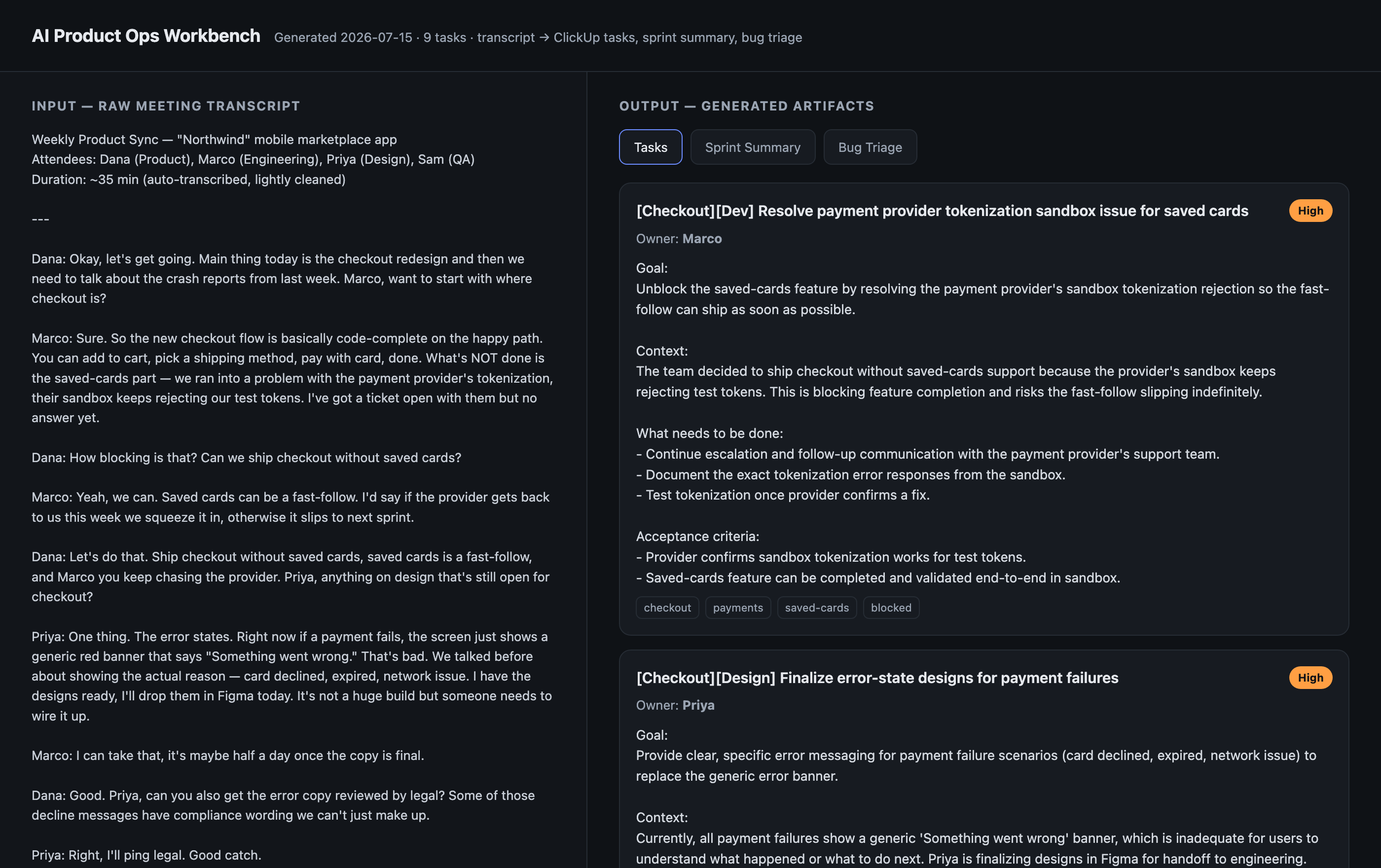
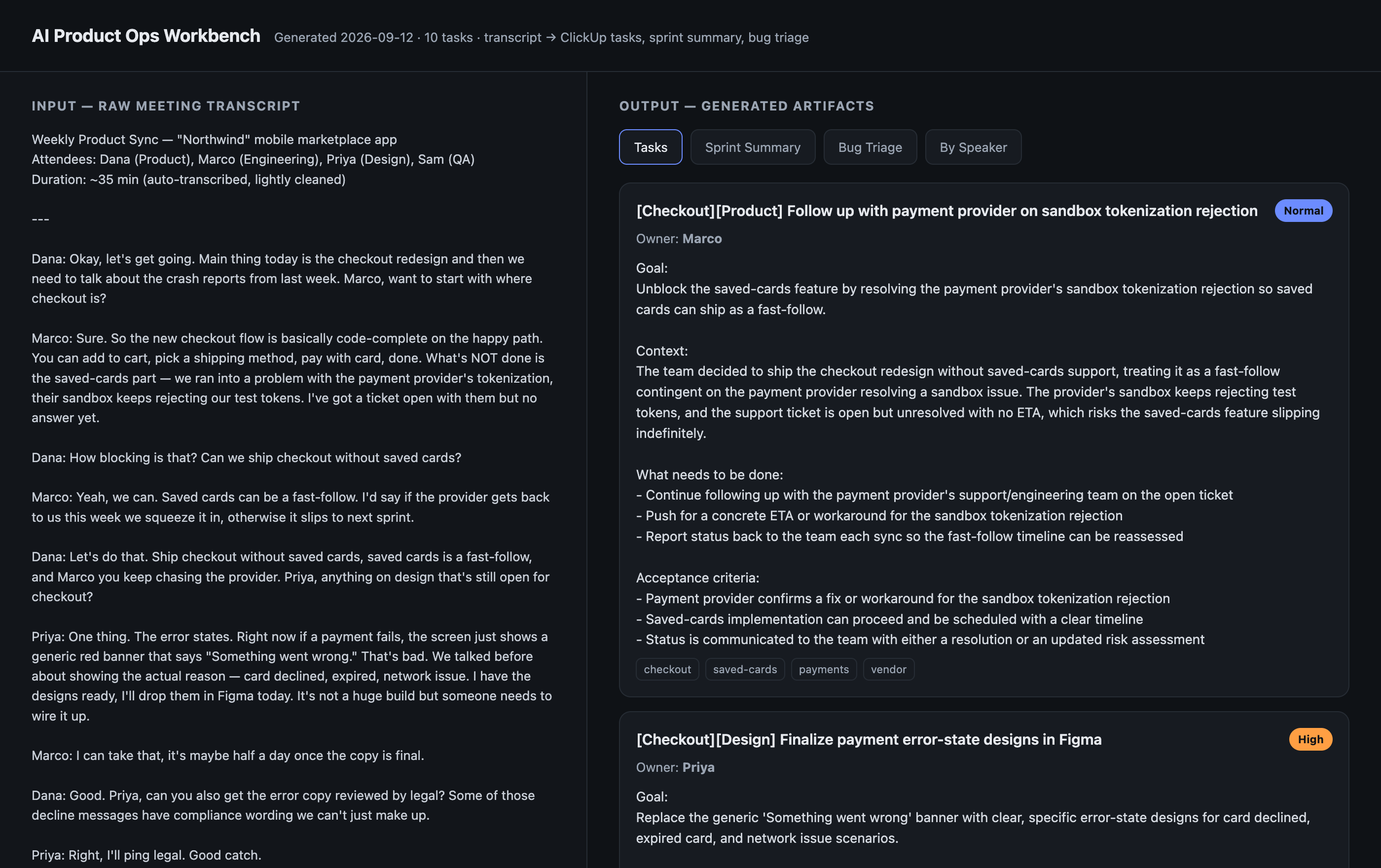
Refresh the public demo, and describe the plan tab
docs/index.html was generated on 15 July and had three tabs — Tasks,
Sprint Summary, Bug Triage — with no per-speaker view (grep -c "By
Speaker" old: 0). It is now a fresh render of the current pipeline and
gains a fourth tab, By Speaker (grep -c "By Speaker" new: 1), matching
the per-speaker view the pipeline now produces. The board plan is not
on this page in either version — it lives in the web app and in
outputs/board_plan.md, not in the static report. The README now
describes the Board plan tab and the apply button, and the apply-gate
section says where the human click sits.

diff --git a/docs/index.html b/docs/index.html
@@ -54,7 +54,7 @@
 <body>
 <header>
   <h1>AI Product Ops Workbench</h1>
-  <span class="sub">Generated 2026-07-15 &middot; 9 tasks &middot; transcript &rarr; ClickUp tasks, sprint summary, bug triage</span>
+  <span class="sub">Generated 2026-09-12 &middot; 10 tasks &middot; transcript &rarr; ClickUp tasks, sprint summary, bug triage</span>
 </header>
 <div class="grid">
   <div class="col left">
@@ -67,36 +67,37 @@
       <div class="tab active" data-pane="tasks">Tasks</div>
       <div class="tab" data-pane="sprint">Sprint Summary</div>
       <div class="tab" data-pane="triage">Bug Triage</div>
+      <div class="tab" data-pane="speakers">By Speaker</div>
     </div>
     <div class="pane active" id="tasks">
     <div class="task-card">
       <div class="task-head">
-        <span class="task-name">[Checkout][Dev] Resolve payment provider tokenization sandbox issue for saved cards</span>
-        <span class="badge prio-2">High</span>
+        <span class="task-name">[Checkout][Product] Follow up with payment provider on sandbox tokenization rejection</span>
+        <span class="badge prio-3">Normal</span>
       </div>
       <div class="task-meta">Owner: <strong>Marco</strong></div>
-      <div class="task-desc">Goal:<br>Unblock the saved-cards feature by resolving the payment provider&#x27;s sandbox tokenization rejection so the fast-follow can ship as soon as possible.<br><br>Context:<br>The team decided to ship checkout without saved-cards support because the provider&#x27;s sandbox keeps rejecting test tokens. This is blocking feature completion and risks the fast-follow slipping indefinitely.<br><br>What needs to be done:<br>- Continue escalation and follow-up communication with the payment provider&#x27;s support team.<br>- Document the exact tokenization error responses from the sandbox.<br>- Test tokenization once provider confirms a fix.<br><br>Acceptance criteria:<br>- Provider confirms sandbox tokenization works for test tokens.<br>- Saved-cards feature can be completed and validated end-to-end in sandbox.</div>
-      <div class="task-tags"><span class="tag">checkout</span><span class="tag">payments</span><span class="tag">saved-cards</span><span class="tag">blocked</span></div>
+      <div class="task-desc">Goal:<br>Unblock the saved-cards feature by resolving the payment provider&#x27;s sandbox tokenization rejection so saved cards can ship as a fast-follow.<br><br>Context:<br>The team decided to ship the checkout redesign without saved-cards support, treating it as a fast-follow contingent on the payment provider resolving a sandbox issue. The provider&#x27;s sandbox keeps rejecting test tokens, and the support ticket is open but unresolved with no ETA, which risks the saved-cards feature slipping indefinitely.<br><br>What needs to be done:<br>- Continue following up with the payment provider&#x27;s support/engineering team on the open ticket<br>- Push for a concrete ETA or workaround for the sandbox tokenization rejection<br>- Report status back to the team each sync so the fast-follow timeline can be reassessed<br><br>Acceptance criteria:<br>- Payment provider confirms a fix or workaround for the sandbox tokenization rejection<br>- Saved-cards implementation can proceed and be scheduled with a clear timeline<br>- Status is communicated to the team with either a resolution or an updated risk assessment</div>
+      <div class="task-tags"><span class="tag">checkout</span><span class="tag">saved-cards</span><span class="tag">payments</span><span class="tag">vendor</span></div>
     </div>
     
     <div class="task-card">
       <div class="task-head">
-        <span class="task-name">[Checkout][Design] Finalize error-state designs for payment failures</span>
+        <span class="task-name">[Checkout][Design] Finalize payment error-state designs in Figma</span>
         <span class="badge prio-2">High</span>
       </div>
       <div class="task-meta">Owner: <strong>Priya</strong></div>
-      <div class="task-desc">Goal:<br>Provide clear, specific error messaging for payment failure scenarios (card declined, expired, network issue) to replace the generic error banner.<br><br>Context:<br>Currently, all payment failures show a generic &#x27;Something went wrong&#x27; banner, which is inadequate for users to understand what happened or what to do next. Priya is finalizing designs in Figma for handoff to engineering.<br><br>What needs to be done:<br>- Design distinct error states for card declined, expired card, and network issue scenarios.<br>- Finalize copy for each error state.<br>- Hand off finalized Figma designs to Marco for implementation.<br><br>Acceptance criteria:<br>- Figma file contains finished designs for all three error scenarios.<br>- Designs and copy are approved and ready for engineering handoff.</div>
+      <div class="task-desc">Goal:<br>Replace the generic &#x27;Something went wrong&#x27; banner with clear, specific error-state designs for card declined, expired card, and network issue scenarios.<br><br>Context:<br>The current checkout error handling shows only a generic error banner regardless of failure reason. Designs for the specific payment error states are ready and need to be delivered in Figma so Marco can implement them, and so decline copy can go through legal review.<br><br>What needs to be done:<br>- Finalize the Figma designs for card declined, expired card, and network issue error states<br>- Include all copy variants needed for each state<br>- Share the Figma file/handoff with Marco for implementation<br><br>Acceptance criteria:<br>- Figma file contains finished designs for all three error states<br>- Designs are handed off and accessible to engineering<br>- Copy is flagged for legal review where compliance wording applies</div>
       <div class="task-tags"><span class="tag">checkout</span><span class="tag">design</span><span class="tag">error-states</span></div>
     </div>
     
     <div class="task-card">
       <div class="task-head">
-        <span class="task-name">[Checkout][Dev] Implement new payment error-state designs</span>
+        <span class="task-name">[Checkout][Dev] Implement payment error-state screens</span>
         <span class="badge prio-2">High</span>
       </div>
       <div class="task-meta">Owner: <strong>Marco</strong></div>
-      <div class="task-desc">Goal:<br>Replace the generic error banner with specific, user-friendly error states for payment failures in the checkout flow.<br><br>Context:<br>Priya is delivering finalized Figma designs and copy for card declined, expired card, and network issue states. Once ready, implementation is estimated at half a day. This work will also fold in the search zero-results spinner fix per team decision.<br><br>What needs to be done:<br>- Wire up the new error-state UI components per finalized Figma designs.<br>- Ensure correct error state displays for each failure scenario (declined, expired, network issue).<br>- Include the search zero-results spinner fix as part of this error-states work.<br><br>Acceptance criteria:<br>- Each payment failure scenario displays its correct, specific error message.<br>- Search zero-results state shows a &#x27;no results&#x27; message instead of an infinite spinner.<br>- QA has verified all error states render correctly.</div>
-      <div class="task-tags"><span class="tag">checkout</span><span class="tag">dev</span><span class="tag">error-states</span><span class="tag">search</span></div>
+      <div class="task-desc">Goal:<br>Replace the generic checkout error banner with the new card declined, expired card, and network issue error screens.<br><br>Context:<br>The build for the new error-state screens is small (roughly half a day) but is blocked on final, legally-reviewed copy from Priya&#x27;s designs. This work will also incorporate the search zero-results spinner fix.<br><br>What needs to be done:<br>- Wait for finalized, legally-approved copy from the error-state designs<br>- Implement the card declined, expired card, and network issue error screens per the Figma designs<br>- Replace the existing generic &#x27;Something went wrong&#x27; banner logic with the new states<br><br>Acceptance criteria:<br>- All three error states render correctly in checkout with final copy<br>- Generic banner no longer appears for these known error cases<br>- QA has verified each error state triggers correctly</div>
+      <div class="task-tags"><span class="tag">checkout</span><span class="tag">dev</span><span class="tag">error-states</span></div>
     </div>
     
     <div class="task-card">
@@ -105,99 +106,101 @@
         <span class="badge prio-2">High</span>
       </div>
       <div class="task-meta">Owner: <strong>Priya</strong></div>
-      <div class="task-desc">Goal:<br>Ensure payment decline error messaging is legally compliant before it ships to users.<br><br>Context:<br>Some decline messages contain compliance-sensitive language that cannot be authored freely by the design team, so legal sign-off is required before implementation proceeds.<br><br>What needs to be done:<br>- Submit finalized decline error copy to legal for review.<br>- Incorporate any requested changes from legal.<br>- Confirm final sign-off before handoff to engineering.<br><br>Acceptance criteria:<br>- Legal has reviewed and approved all decline error copy.<br>- Approved copy is reflected in the final Figma designs.</div>
+      <div class="task-desc">Goal:<br>Ensure all payment decline error messages are compliant before they ship in the new error-state screens.<br><br>Context:<br>Some decline messages contain compliance-sensitive wording that cannot be authored freely by the product/design team, so legal sign-off is required before the copy can be finalized and handed to engineering.<br><br>What needs to be done:<br>- Submit the draft decline error copy to legal for review<br>- Incorporate any required wording changes from legal&#x27;s feedback<br>- Confirm final approved copy back to Priya&#x27;s design file and to Marco for implementation<br><br>Acceptance criteria:<br>- Legal has signed off on all decline error copy<br>- Final approved copy is reflected in the Figma designs<br>- Marco has the approved copy needed to implement the error-state screens</div>
       <div class="task-tags"><span class="tag">checkout</span><span class="tag">legal</span><span class="tag">compliance</span><span class="tag">error-states</span></div>
     </div>
     
     <div class="task-card">
       <div class="task-head">
-        <span class="task-name">[Product Detail][Dev] Fix crash on product detail screen for products with no images</span>
+        <span class="task-name">[Product Detail][Dev] Fix crash on empty product image carousel</span>
         <span class="badge prio-1">Urgent</span>
       </div>
       <div class="task-meta">Owner: <strong>Alex</strong></div>
-      <div class="task-desc">Goal:<br>Eliminate the crash occurring when users open a product detail screen for a product with no images, restoring stability for affected Android sessions.<br><br>Context:<br>Crash reports show the image carousel hits a null reference when rendering a product with no photos, affecting ~4% of Android sessions (negligible on iOS). This is common because many new sellers skip uploading photos. The carousel component is shared across multiple screens, so the fix must be applied carefully. This has been made the team&#x27;s top priority, jumping the queue, with a fix planned for tomorrow.<br><br>What needs to be done:<br>- Alex to identify and fix the null-handling bug in the shared image carousel component.<br>- Add a fallback/placeholder state for products with zero images.<br>- Verify the fix does not break other screens using the shared carousel.<br><br>Acceptance criteria:<br>- Opening a product detail screen with no images no longer crashes the app.<br>- Carousel displays a placeholder or graceful empty state when no images exist.<br>- No regressions introduced on other screens using the shared carousel.</div>
-      <div class="task-tags"><span class="tag">crash</span><span class="tag">android</span><span class="tag">product-detail</span><span class="tag">carousel</span></div>
+      <div class="task-desc">Goal:<br>Eliminate the product detail screen crash caused by a null reference when a product has no uploaded images.<br><br>Context:<br>This crash was identified via QA logs and is now the team&#x27;s top priority, jumping ahead of other work. It&#x27;s a null reference in the image carousel rendering when there are zero images, affecting roughly 4% of Android sessions (negligible on iOS), and correlates with new sellers who skip uploading photos.<br><br>What needs to be done:<br>- Identify the null reference path in the carousel rendering logic for zero-image products<br>- Implement a placeholder image to display when a product has no photos<br>- Verify the fix on Android, where the crash rate is significant<br><br>Acceptance criteria:<br>- Opening a product detail page with zero images no longer crashes the app<br>- A placeholder image displays correctly in place of the missing carousel content<br>- Crash rate for this scenario drops to zero in subsequent QA verification</div>
+      <div class="task-tags"><span class="tag">crash</span><span class="tag">product-detail</span><span class="tag">android</span><span class="tag">carousel</span></div>
     </div>
     
     <div class="task-card">
       <div class="task-head">
-        <span class="task-name">[Product Detail][QA] Write regression tests and re-run carousel suite for empty-images crash fix</span>
-        <span class="badge prio-1">Urgent</span>
-      </div>
-      <div class="task-meta">Owner: <strong>Sam</strong></div>
-      <div class="task-desc">Goal:<br>Validate that the empty-images crash fix works correctly and does not regress any of the shared carousel&#x27;s other use cases.<br><br>Context:<br>The product detail screen crash fix is the team&#x27;s top priority. Because the carousel component is shared across multiple screens, thorough regression testing is needed to catch any side effects, especially given QA&#x27;s limited Android device coverage.<br><br>What needs to be done:<br>- Write regression test cases specifically covering the empty-images crash path.<br>- Re-run the full carousel test suite after the fix is implemented.<br>- Report any regressions found across shared carousel screens.<br><br>Acceptance criteria:<br>- Regression test cases exist and cover the empty-images scenario.<br>- Full carousel test suite passes post-fix with no new regressions.<br>- Sign-off given that the crash fix is safe to release.</div>
-      <div class="task-tags"><span class="tag">qa</span><span class="tag">crash</span><span class="tag">regression</span><span class="tag">carousel</span></div>
-    </div>
-    
-    <div class="task-card">
-      <div class="task-head">
-        <span class="task-name">[Product][Design] Propose seller photo-nudge feature</span>
-        <span class="badge prio-3">Normal</span>
-      </div>
-      <div class="task-meta">Owner: <strong>Dana</strong></div>
-      <div class="task-desc">Goal:<br>Define a proposal for nudging sellers to add at least one product photo, addressing the root cause of the missing-images crash and improving overall listing quality.<br><br>Context:<br>Missing product images are the root cause behind the product detail crash and a poor buyer experience. This is deferred as a separate product-side initiative for a future sprint, not part of the current sprint&#x27;s scope.<br><br>What needs to be done:<br>- Research nudge mechanisms (e.g., in-app prompts, listing incompletion warnings) for sellers without photos.<br>- Draft a proposal outlining the approach, expected impact, and rough scope.<br>- Share proposal with the product team for prioritization in a future sprint.<br><br>Acceptance criteria:<br>- A written proposal exists covering approach and expected impact.<br>- Proposal is reviewed and slotted for future sprint planning.</div>
-      <div class="task-tags"><span class="tag">product</span><span class="tag">sellers</span><span class="tag">future-sprint</span></div>
-    </div>
-    
-    <div class="task-card">
-      <div class="task-head">
-        <span class="task-name">[QA][Product] Raise Android device testing budget with finance</span>
-        <span class="badge prio-3">Normal</span>
-      </div>
-      <div class="task-meta">Owner: <strong>Dana</strong></div>
-      <div class="task-desc">Goal:<br>Increase QA&#x27;s Android device coverage to reduce the risk of Android-specific bugs slipping through to production.<br><br>Context:<br>Sam currently only has two physical Android devices for testing, which limited QA&#x27;s ability to catch the recent product detail crash before release. This gap is identified as an ongoing risk to release quality.<br><br>What needs to be done:<br>- Prepare a budget request outlining current device gaps and their impact on release quality.<br>- Propose options: additional physical devices or device farm/cloud testing access.<br>- Submit request to finance for approval.<br><br>Acceptance criteria:<br>- Budget request submitted to finance.<br>- Decision received on additional devices or device farm access.</div>
-      <div class="task-tags"><span class="tag">qa</span><span class="tag">android</span><span class="tag">budget</span><span class="tag">process</span></div>
-    </div>
-    
-    <div class="task-card">
-      <div class="task-head">
-        <span class="task-name">[Checkout][Dev] Instrument analytics for checkout funnel</span>
+        <span class="task-name">[Product Detail][QA] Write and run regression tests for empty-image carousel fix</span>
         <span class="badge prio-2">High</span>
       </div>
+      <div class="task-meta">Owner: <strong>Sam</strong></div>
+      <div class="task-desc">Goal:<br>Confirm the empty-images crash fix works correctly and doesn&#x27;t regress other screens that share the image carousel component.<br><br>Context:<br>The image carousel is shared across multiple screens, so verifying Alex&#x27;s crash fix requires dedicated regression coverage for the empty-images path plus a full re-run of the existing carousel test suite.<br><br>What needs to be done:<br>- Write new regression test cases specifically covering the zero-images carousel path<br>- Re-run the full carousel test suite after the crash fix lands<br>- Report any regressions found on screens that share the carousel component<br><br>Acceptance criteria:<br>- New regression tests for the empty-images case are written and passing<br>- Full carousel test suite has been re-run with no new failures<br>- Sign-off given that the crash fix is safe to release across all carousel-using screens</div>
+      <div class="task-tags"><span class="tag">qa</span><span class="tag">regression</span><span class="tag">product-detail</span><span class="tag">carousel</span></div>
+    </div>
+    
+    <div class="task-card">
+      <div class="task-head">
+        <span class="task-name">[Seller Onboarding][Product] Define rule nudging sellers to upload a product photo</span>
+        <span class="badge prio-4">Low</span>
+      </div>
+      <div class="task-meta">Owner: <strong>Dana</strong></div>
+      <div class="task-desc">Goal:<br>Reduce the root cause of the empty-images crash by encouraging sellers to upload at least one product photo when listing an item.<br><br>Context:<br>The crash&#x27;s root cause is that many new sellers skip uploading photos entirely. While the immediate crash is being fixed via a placeholder image, this is a separate, non-urgent follow-up to reduce how often the zero-image case occurs in the first place.<br><br>What needs to be done:<br>- Draft a product rule/requirement nudging sellers to upload at least one photo during listing creation<br>- Define the UX for the nudge (e.g., warning, soft block, or reminder)<br>- Share the proposal with the team for prioritization<br><br>Acceptance criteria:<br>- A written product rule/spec exists describing the seller photo nudge<br>- Proposal has been reviewed by the team and prioritized into a future sprint<br>- Spec is ready to hand off to design/engineering when scheduled</div>
+      <div class="task-tags"><span class="tag">seller-onboarding</span><span class="tag">product</span><span class="tag">backlog</span></div>
+    </div>
+    
+    <div class="task-card">
+      <div class="task-head">
+        <span class="task-name">[Search][Dev] Fix infinite spinner on zero-result searches</span>
+        <span class="badge prio-4">Low</span>
+      </div>
       <div class="task-meta">Owner: <strong>Marco</strong></div>
-      <div class="task-desc">Goal:<br>Gain visibility into checkout funnel drop-off and user behavior after the new checkout flow launches.<br><br>Context:<br>The team decided to ship checkout without analytics instrumentation initially but agreed to add it this sprint, right after the crash fix. Without this, the team has no way to measure funnel performance post-launch, which is flagged as a risk.<br><br>What needs to be done:<br>- Define key checkout funnel events (e.g., cart start, shipping selection, payment attempt, payment success/failure).<br>- Implement event tracking for each defined step.<br>- Validate events are firing correctly in a staging/analytics dashboard.<br><br>Acceptance criteria:<br>- All defined checkout funnel events are instrumented and firing correctly.<br>- Team can view funnel drop-off data in the analytics dashboard post-launch.</div>
-      <div class="task-tags"><span class="tag">checkout</span><span class="tag">analytics</span><span class="tag">instrumentation</span></div>
+      <div class="task-desc">Goal:<br>Replace the infinite loading spinner with a clear &#x27;no results&#x27; message when a search returns zero results.<br><br>Context:<br>This is a long-standing, frontend-only bug where the search screen spins indefinitely instead of showing a &#x27;no results&#x27; message, causing users to think the app is broken and force-close it. It&#x27;s low severity but will be folded into the payment error-states implementation work.<br><br>What needs to be done:<br>- Detect the zero-results case in the search response handling<br>- Display a clear &#x27;no results&#x27; message instead of leaving the spinner active<br>- Bundle this fix into the same implementation pass as the error-state screens<br><br>Acceptance criteria:<br>- Searches returning zero results show a &#x27;no results&#x27; message instead of an infinite spinner<br>- No regression to searches that do return results<br>- Fix is verified on both iOS and Android</div>
+      <div class="task-tags"><span class="tag">search</span><span class="tag">bug</span><span class="tag">ux</span></div>
+    </div>
+    
+    <div class="task-card">
+      <div class="task-head">
+        <span class="task-name">[QA][Product] Raise Android device budget with finance</span>
+        <span class="badge prio-3">Normal</span>
+      </div>
+      <div class="task-meta">Owner: <strong>Dana</strong></div>
+      <div class="task-desc">Goal:<br>Increase QA&#x27;s Android device coverage to catch Android-specific issues before release.<br><br>Context:<br>Sam currently only has two physical Android devices for testing, which limited pre-release detection of the Android-specific product detail crash. This is flagged as a risk given the team&#x27;s reliance on device diversity to catch platform-specific bugs.<br><br>What needs to be done:<br>- Put together a proposal/budget request for additional physical Android devices or device farm access<br>- Present the request to finance, citing the missed Android crash as justification<br>- Follow up on approval and procurement timeline<br><br>Acceptance criteria:<br>- Budget request has been submitted to finance<br>- A decision (approved/denied/deferred) has been received<br>- If approved, a plan for procuring devices or device farm access exists</div>
+      <div class="task-tags"><span class="tag">qa</span><span class="tag">android</span><span class="tag">infrastructure</span><span class="tag">backlog</span></div>
+    </div>
+    
+    <div class="task-card">
+      <div class="task-head">
+        <span class="task-name">[Checkout][Dev] Instrument analytics events for checkout funnel</span>
+        <span class="badge prio-2">High</span>
+      </div>
+      <div class="task-meta">Owner: <strong>Unassigned</strong></div>
+      <div class="task-desc">Goal:<br>Gain visibility into checkout funnel drop-off by instrumenting analytics events across the checkout flow.<br><br>Context:<br>Checkout analytics are not yet wired up, meaning the team will be blind to funnel drop-off once the redesigned checkout ships. The team agreed to add this instrumentation this sprint, right after the crash fix is completed.<br><br>What needs to be done:<br>- Define the key checkout funnel steps to track (e.g., cart, shipping, payment, confirmation)<br>- Implement analytics events for each step, including drop-off and error events<br>- Verify events are firing correctly and reaching the analytics dashboard<br><br>Acceptance criteria:<br>- Analytics events exist for every major step in the checkout funnel<br>- Funnel drop-off data is visible in the analytics dashboard<br>- Data is validated as accurate against manual test runs through checkout</div>
+      <div class="task-tags"><span class="tag">checkout</span><span class="tag">analytics</span><span class="tag">dev</span></div>
     </div>
     </div>
-    <div class="pane" id="sprint"><h1>Sprint Summary — Weekly Product Sync — Northwind Checkout Redesign &amp; Crash Reports</h1>
+    <div class="pane" id="sprint"><h1>Sprint Summary — Weekly Product Sync — Northwind Mobile Marketplace App</h1>
 <h2>Highlights</h2>
-<p>The new checkout flow is code-complete and will ship without saved-cards support, since a payment provider sandbox issue is blocking that feature. The team is pausing other work to fix a critical crash affecting ~4% of Android sessions on the product detail screen, then will add checkout analytics and polish error messaging. Saved cards, a search bug fix, and a seller photo-nudge idea are all queued up as follow-on work.</p>
+<p>The checkout redesign is code-complete on the happy path and will ship without saved-cards support, which is blocked on the payment provider. A critical crash affecting ~4% of Android sessions (product detail screen, no-image products) has been made the team's top priority, with a fix starting immediately. Payment error-state designs are ready for handoff, and a minor search bug will be fixed alongside that work.</p>
 <h2>Decisions</h2>
 <ul>
-<li>Ship the new checkout flow without saved-cards support.</li>
-<li>Treat saved-cards as a fast-follow, pending payment provider resolution.</li>
-<li>Make the product-detail-screen crash fix the team's top priority, ahead of other work.</li>
-<li>Bundle the search zero-results spinner fix into the error-states work.</li>
-<li>Add checkout analytics instrumentation this sprint, immediately after the crash fix.</li>
-<li>Do not mention saved cards in release notes, given the unresolved provider dependency.</li>
-<li>Defer the seller photo-nudge feature to a future sprint as separate product work.</li>
+<li>Ship the checkout redesign without saved-cards support; saved cards become a fast-follow pending the payment provider's fix.</li>
+<li>Prioritize the product detail screen crash fix above all other sprint work.</li>
 </ul>
 <h2>In Progress / Shipping</h2>
 <ul>
-<li>Checkout flow (happy path: add to cart, shipping, card payment) — code-complete, shipping without saved cards.</li>
-<li>Product detail crash fix for missing product images (Alex, assigned by Marco) — fix planned for tomorrow.</li>
-<li>Error-state designs for payment failures — final designs coming (Priya), implementation to follow (Marco, ~half a day).</li>
-<li>Payment provider follow-up on tokenization sandbox blocking saved cards (Marco).</li>
-<li>Regression test cases and carousel re-testing for the crash fix (Sam).</li>
+<li>Checkout redesign (happy path: cart, shipping, card payment) — code-complete, shipping without saved cards.</li>
+<li>Product detail screen crash fix — placeholder image for no-photo products (Alex), starting immediately.</li>
+<li>Payment error-state screens (card declined, expired, network issue) — designs being finalized (Priya), implementation to follow (Marco).</li>
+<li>Regression testing for the crash fix and shared image carousel (Sam).</li>
+<li>Search "no results" fix for zero-result searches — folded into error-states work (Marco).</li>
 </ul>
 <h2>Next Up</h2>
 <ul>
-<li>Wire up new payment error-state designs once copy/designs are finalized (Marco).</li>
-<li>Legal review of payment decline error copy for compliance (Priya).</li>
-<li>Fix search zero-results spinner to show a "no results" message instead of spinning indefinitely (Marco).</li>
-<li>Instrument checkout funnel analytics (Marco), right after the crash fix.</li>
-<li>Seller photo-nudge proposal to reduce missing product images (Dana).</li>
-<li>Raise Android device testing budget with finance for more QA device coverage (Dana).</li>
-<li>Resume saved-cards work once provider tokenization issue is resolved.</li>
+<li>Wire up new payment error-state screens once copy is finalized and legal-reviewed (Marco/Priya).</li>
+<li>Instrument checkout funnel analytics, right after the crash fix lands (owner TBD).</li>
+<li>Product-side nudge for sellers to upload at least one photo, to address root cause of the crash (Dana, backlog).</li>
+<li>Raise Android test device budget with finance to improve QA coverage (Dana, backlog).</li>
 </ul>
 <h2>Risks &amp; Blockers</h2>
 <ul>
-<li><strong>Saved cards may keep slipping</strong>: blocked on the payment provider's tokenization sandbox issue; needs continued vendor follow-up (Marco) to unblock.</li>
-<li><strong>Limited Android QA coverage</strong>: Sam has only two physical Android devices, which let the product-detail crash reach production; needs expanded device access (budget request in progress with Dana/finance).</li>
-<li><strong>No launch-day visibility into checkout performance</strong>: shipping without analytics instrumentation means the team can't measure funnel drop-off until instrumentation is added post-crash-fix.</li>
+<li>Saved-cards launch has no ETA — dependent on the payment provider resolving a sandbox tokenization issue; could keep slipping.</li>
+<li>QA has only two physical Android devices, limiting pre-release detection of Android-specific issues; more device coverage needed to prevent repeat incidents.</li>
+<li>Checkout will launch without funnel analytics, leaving the team blind to drop-off until instrumentation is added.</li>
 </ul></div>
-    <div class="pane" id="triage"><h1>Bug Triage — Weekly Product Sync — Northwind Checkout Redesign &amp; Crash Reports</h1>
-<p>Two bugs surfaced this sprint, ranging from a critical Android crash to a long-standing low-severity search annoyance.</p>
+    <div class="pane" id="triage"><h1>Bug Triage — Weekly Product Sync — Northwind Mobile Marketplace App</h1>
+<p>Two bugs were flagged this week, with the product detail crash now the team's top priority.</p>
 <table>
 <thead>
 <tr>
@@ -212,29 +215,58 @@
 <tbody>
 <tr>
 <td>1</td>
-<td>App crashes when opening a product detail screen for a product with no images</td>
-<td>Product detail screen / image carousel</td>
+<td>App crashes when opening a product detail page for a product with no uploaded images</td>
+<td>Product detail screen (image carousel)</td>
 <td>Critical</td>
 <td>P0</td>
-<td>Alex to patch the carousel's null-image handling (fix planned for tomorrow); Sam to write regression tests for the empty-images path and re-run the full carousel suite across all shared screens before release</td>
+<td>Ship placeholder-image fallback for empty carousel (Alex, starting immediately); Sam to write regression tests for the empty-images path and re-run the carousel suite before release</td>
 </tr>
 <tr>
 <td>2</td>
-<td>Search results spinner spins indefinitely instead of showing a "no results" message on zero results</td>
-<td>Search screen</td>
+<td>Search results screen spins indefinitely instead of showing "no results" on zero-result searches</td>
+<td>Search</td>
 <td>Low</td>
 <td>P2</td>
-<td>Fix as part of the error-states workstream — replace infinite spinner with a "no results" message; frontend-only change</td>
+<td>Fix frontend logic to show a "no results" state; bundle into the in-progress payment error-states implementation work (Marco)</td>
 </tr>
 </tbody>
 </table>
 <h2>Notes</h2>
 <ul>
-<li><strong>Bug 1 (crash):</strong> Root cause is the shared image carousel component hitting a null when a product has zero photos — common since many new sellers skip uploading photos. Affects ~4% of Android sessions (negligible on iOS), and was missed pre-release partly because QA only has two physical Android devices; Dana is raising budget for more device coverage/device farm access. This crash has jumped the queue to become the team's top priority.</li>
-<li><strong>Bug 2 (search spinner):</strong> Long-standing, frontend-only issue causing users to think the app is broken and force-close. Low severity/impact but easy to fix, so it's being bundled with the payment error-state redesign work rather than tracked as a standalone fix.</li>
-<li>Neither bug is blocking the checkout redesign launch, but the crash fix takes precedence over checkout analytics instrumentation, which is now slated to follow it this sprint.</li>
-<li>Saved-cards support and the seller photo-nudge proposal are separate feature/product initiatives (not bugs) but are noted here for context since they're related to the missing-image root cause and checkout scope decisions.</li>
+<li><strong>Bug 1 root cause:</strong> Null reference in the image carousel when a product has zero photos, disproportionately hitting new sellers who skip photo upload. Affects ~4% of Android sessions; impact on iOS is negligible. Decision made to jump this ahead of all other sprint work.</li>
+<li><strong>Related risk:</strong> QA only has two physical Android devices (no device farm), which contributed to this Android-specific crash slipping past pre-release testing — raising the device budget is a tracked backlog follow-up (Dana).</li>
+<li><strong>Longer-term fix:</strong> A product-side nudge encouraging sellers to upload at least one photo is planned as a non-urgent backlog item (Dana) to address the root cause, separate from the immediate code fix.</li>
+<li><strong>Bug 2 context:</strong> Long-standing, frontend-only issue; low severity on its own, but causes users to assume the app is broken and force-close. Being folded into the payment error-state screen work already in flight rather than tracked as standalone effort.</li>
 </ul></div>
+    <div class="pane" id="speakers"><h2>Dana</h2>
+<p><strong>Status:</strong> Running the sync; driving prioritization calls on checkout scope and the crash response, and picking up a couple of product-side follow-ups herself.
+<strong>Committed to:</strong>
+- Write up a product-side rule nudging sellers to upload at least one photo (not this sprint, backlog).
+- Raise the Android device budget with finance to get QA more physical devices or device farm access.
+<strong>Blocked by:</strong> —
+<strong>Follow-ups:</strong> Wants saved-cards communicated clearly as a fast-follow, not promised in release notes, given provider dependency.</p>
+<h2>Marco</h2>
+<p><strong>Status:</strong> Checkout redesign is code-complete on the happy path; saved cards is stalled on the payment provider. Now shifting focus to assigning the crash fix and picking up the search spinner bug alongside error-state work.
+<strong>Committed to:</strong>
+- Keep chasing the payment provider on the sandbox tokenization rejection blocking saved cards; squeeze it in this sprint if they respond in time, otherwise it slips to next sprint.
+- Wire up the new payment error-state screens once Priya's copy is final (~half a day of work).
+- Assign Alex to start the product detail crash fix (placeholder image for empty-images carousel) first thing tomorrow.
+- Fold the search zero-results spinner fix in with the error-states work.
+<strong>Blocked by:</strong> Payment provider's sandbox tokenization issue, no ETA.
+<strong>Follow-ups:</strong> Flagged that checkout funnel analytics aren't instrumented yet — raised but not assigned to himself; Dana agreed to get it into this sprint after the crash fix (owner unassigned).</p>
+<h2>Priya</h2>
+<p><strong>Status:</strong> Payment error-state designs (card declined, expired, network issue) are ready, replacing the generic "Something went wrong" banner.
+<strong>Committed to:</strong>
+- Drop the error-state designs into Figma today.
+- Get the payment decline error copy reviewed by legal for compliance wording.
+<strong>Blocked by:</strong> —
+<strong>Follow-ups:</strong> —</p>
+<h2>Sam</h2>
+<p><strong>Status:</strong> Identified the product detail screen crash (image carousel null on empty-images products, ~4% of Android sessions) via QA logs; also flagged a long-standing search zero-results spinner bug.
+<strong>Committed to:</strong>
+- Write regression test cases for the empty-images path and re-run the carousel test suite once Alex's fix lands.
+<strong>Blocked by:</strong> Limited Android device coverage (only two physical devices), which contributed to missing this crash pre-release; raised as a blocker for QA coverage, escalated to Dana to address with finance.
+<strong>Follow-ups:</strong> —</p></div>
   </div>
 </div>
 <script>

diff --git a/README.md b/README.md
@@ -38,11 +38,19 @@ A small three-stage pipeline built on the [Claude API](https://console.anthropic
 Prompts live in [`prompts/`](prompts/) as plain Markdown — the product logic is
 first-class and editable without touching code.
 
-**Send to ClickUp (optional):** with a `CLICKUP_API_TOKEN` set, the web app shows a
-"Send to ClickUp" button that creates the generated tasks — titled, prioritized, tagged,
-and **assigned to the resolved owner** — directly in a ClickUp list, so a meeting turns
-into a populated board in one click. Owner names resolve to real assignees via an alias
-map (`OWNER_ALIASES`) → fuzzy match on workspace members → unassigned fallback.
+**Board plan and apply (optional):** with `CLICKUP_API_TOKEN` set, the app lists the
+workspace's ClickUp lists to pick from when `CLICKUP_TEAM_ID` is set, using
+`CLICKUP_LIST_ID` as the default, and reads the chosen board before the first model
+call; a fifth tab, **Board plan**, shows what the run would do to it — create, comment
+on an existing task, or ask a human — with the agent's reason for each. The list is
+chosen before you click Generate, and the plan is applied only to the list it was
+reconciled against. One button applies that plan: new tasks are created titled,
+prioritized, tagged and **assigned to the resolved owner**; matched points land as
+comments carrying the meeting title and date. Items below the confidence gate are
+applied only if you tick them, one by one. Every effect goes through the same
+idempotency store the n8n workflow uses, so clicking twice applies nothing twice. Owner
+names resolve via an alias map (`OWNER_ALIASES`) → fuzzy match on workspace members →
+unassigned fallback.
 
 ## Run it
 
@@ -81,6 +89,7 @@ src/
   render.py         stage 3 — artifacts → report.html
   reconcile.py      stage 1.5 — check each point against the board before acting
   clickup.py        reads the board and writes to it
+  apply.py          applies a plan to the board, each effect at most once
 prompts/            the instructions for each stage (Markdown)
 samples/            synthetic demo transcripts (no real/sensitive data)
 evals/              the three eval harnesses, their labels and their results
@@ -131,9 +140,11 @@ threshold could have bought on this set, not what to set it to.
 
 ## The apply gate
 
-The pipeline builds a plan and stops. It writes `outputs/board_plan.md` and never touches
-the tracker. That is a decision, not an unfinished feature — and the reason is the shape of
-the misses, not the headline number.
+The pipeline builds a plan and stops. The CLI writes `outputs/board_plan.md` and never
+touches the tracker; the web app shows the same plan and applies it only when a person
+clicks, with anything below the gate opted in item by item. Nothing is written on the
+pipeline's own judgement. That is a decision, not an unfinished feature — and the reason
+is the shape of the misses, not the headline number.
 
 ### What the 50–67% is actually made of
 
